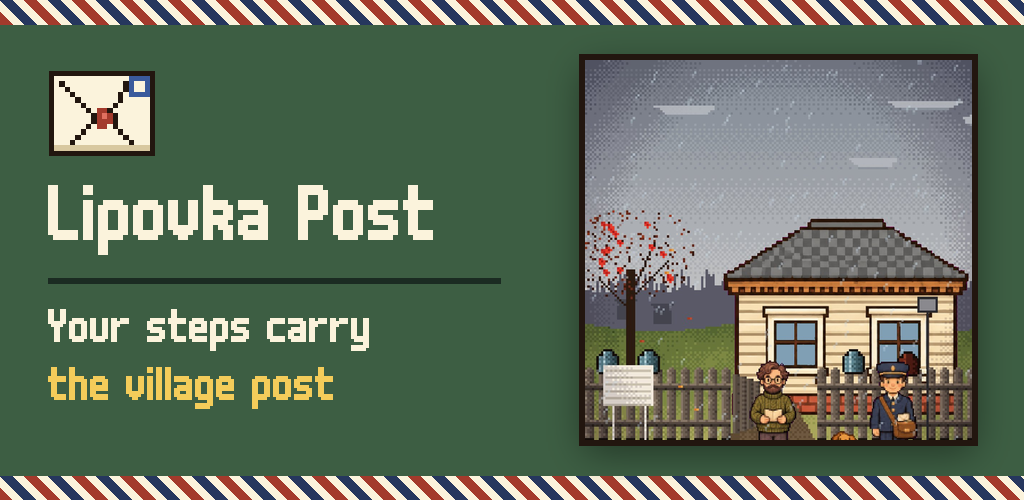
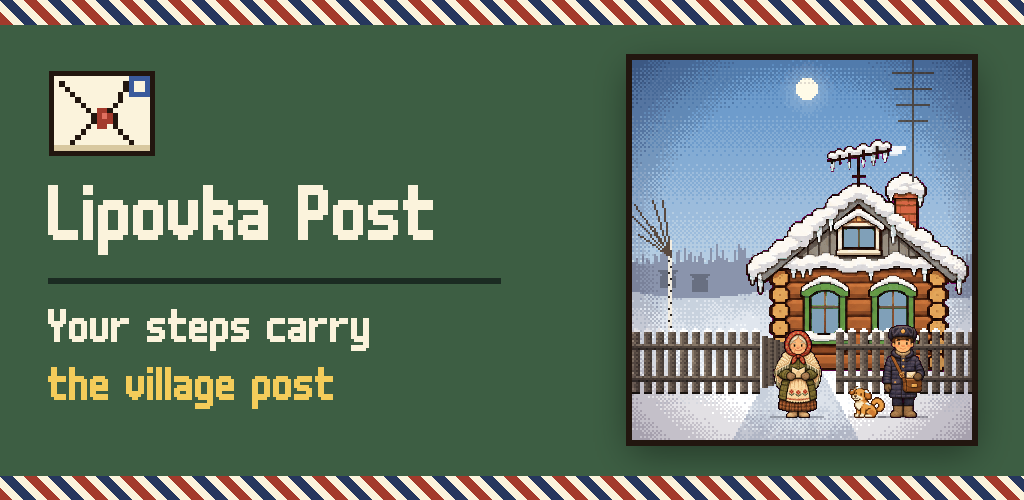
Google Play: Baba Nina and the postman, whole, on the feature graphic [skip ci]

Changed region(s): [[0.5625, 0.09, 0.9688, 0.9]]

diff --git a/app/src/test/java/app/lipovka/RenderArtScenes.kt b/app/src/test/java/app/lipovka/RenderArtScenes.kt
@@ -63,6 +63,11 @@ class RenderArtScenes {
             save("evening-out-$name", frame(EveningScene(e, lit = false)))
             save("map-$name", frame(MapScene(e, k % 6, MapRound(postman = World.house("lebedev")!!.at, pending = setOf("mill", "apiary"), walking = true), true)), 3)
         }
+        // a grandmother and the postman at her gate, for the Play feature graphic (tools/play.py)
+        for (who in listOf("nina", "agafya")) for (name in listOf("winter-day-frost", "autumn-day-clear")) {
+            val r = content.resident(who)!!
+            save("feature-$who-$name", frame(GateScene(envs.toMap().getValue(name), World.house(r.house)!!, r, true)), 2)
+        }
         val e = envs.first().second
         for (r in content.residents) save("who-${r.id}", frame(GateScene(e, World.house(r.house)!!, r, false)), 2)
     }

diff --git a/tools/play.py b/tools/play.py
@@ -5,6 +5,7 @@ python tools/play.py
 Takes docs/screenshots/<lang>/*.jpg (1080 px wide renders of the demo, see tools/shots.py) and writes
 the 512 px icon, the 1024x500 feature graphics and eight 1080x1920 captioned screenshots per language.
 Play wants screenshots no longer than twice their width, so each screen is cut short under its caption.
+The feature graphic's scene is rendered first: ./gradlew testDebugUnitTest -Prender --tests '*RenderArtScenes*'
 """
 from pathlib import Path
 
@@ -13,6 +14,7 @@ from PIL import Image, ImageDraw, ImageFilter, ImageFont
 ROOT = Path(__file__).resolve().parent.parent
 OUT = ROOT / "docs/google-play/graphics"
 SHOTS = ROOT / "docs/screenshots"
+FEATURE = ROOT / "app/build/art/scenes/feature-nina-winter-day-frost.png"
 FONT = ROOT / "app/src/main/res/font/m6x11.ttf"
 
 GREEN = (0x3D, 0x5E, 0x43)
@@ -98,9 +100,10 @@ def feature(lang):
     d.fontmode = "1"
     d.rectangle((0, H - 24, W, H), fill=LIGHT)
     airmail(d, H - 24, W)
-    # The postman at the gate with a letter.
-    gate = Image.open(SHOTS / lang / "2-gate.jpg").convert("RGB").crop((0, 0, 1080, 1060))
-    gate = gate.resize((round(gate.width * 380 / gate.height), 380), Image.LANCZOS)
+    # Baba Nina and the postman at her gate on a frosty day, whole, down to their boots
+    # (rendered by RenderArtScenes into app/build/art/scenes, see the module docstring).
+    gate = Image.open(FEATURE).convert("RGB")
+    gate = gate.resize((round(gate.width * 380 / gate.height), 380), Image.NEAREST)
     lay(g, gate, W - gate.width - 52, 60)
     logo = Image.open(ROOT / "docs/logo.png").convert("RGBA").crop((40, 104, 472, 448))
     logo = logo.resize((logo.width // 4, logo.height // 4), Image.NEAREST)
